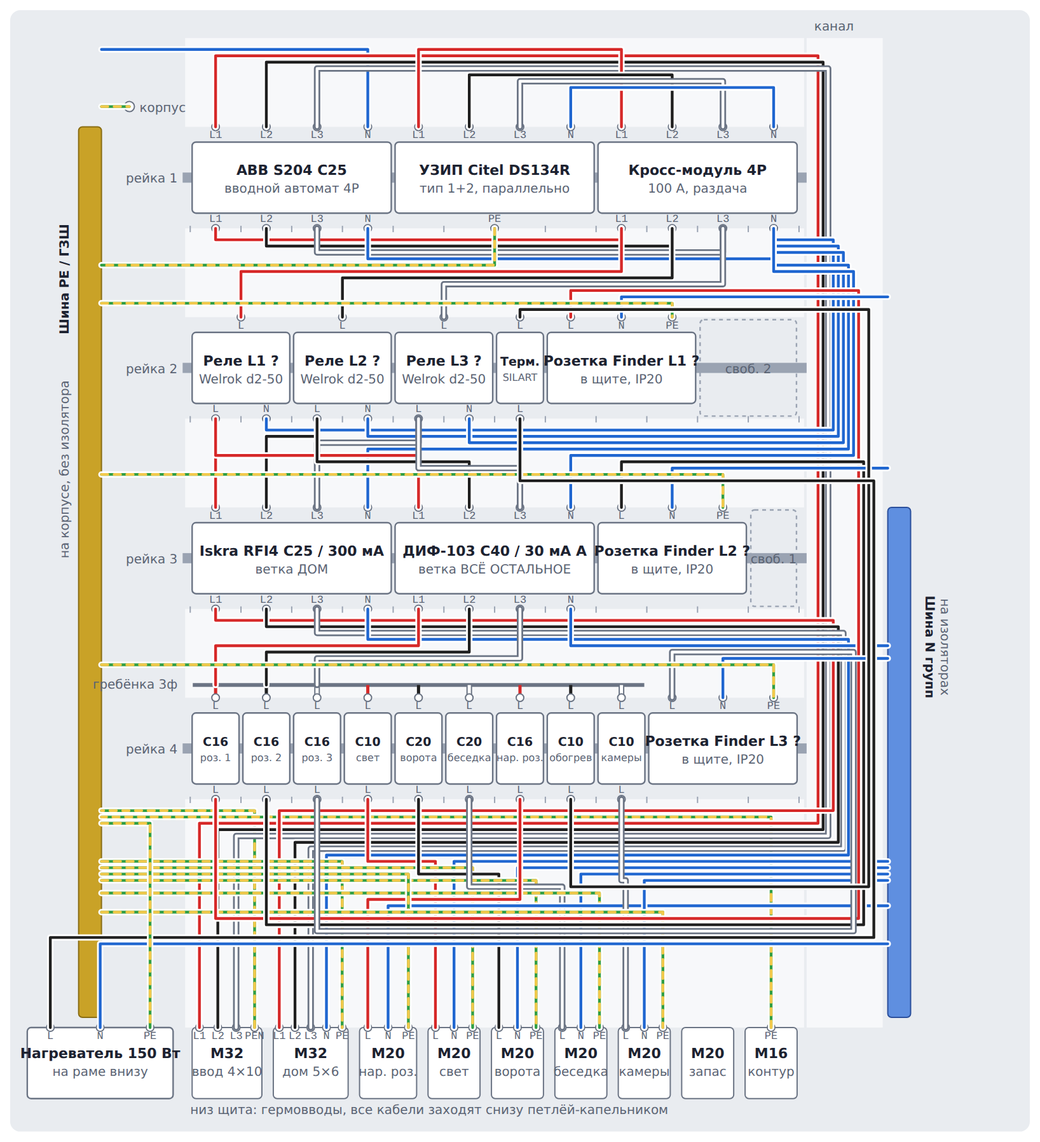
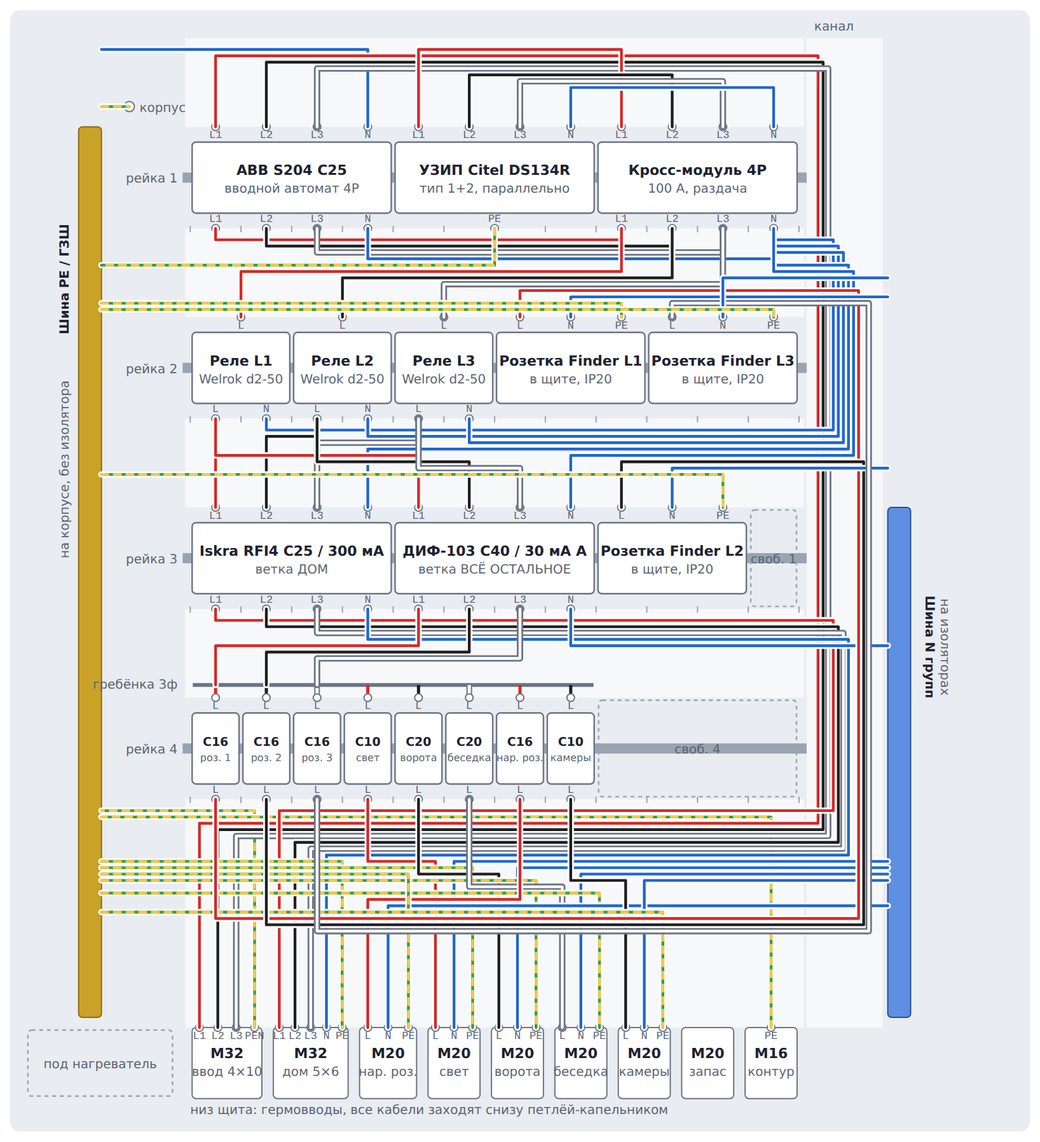
Щит: раскладка по примерке 05.10 — обогрев вынут, две Finder на рейке 2, 8 автоматов, 63 провода
Claude-Session: https://claude.ai/code/session_014vwwLy1XQxWdD3M4ixQCrA

diff --git a/07-schemas/electrics/panel-layout.html b/07-schemas/electrics/panel-layout.html
@@ -1,4 +1,4 @@
-<!doctype html><html lang="ru"><head><meta charset="utf-8"><meta name="viewport" content="width=device-width,initial-scale=1"><style>body{margin:0;font:14px system-ui}img{max-width:100%}[hidden]{display:none!important}</style></head><body><title>Щит на трубостойке</title>
+<title>Щит на трубостойке</title>
 <link rel="stylesheet" href="https://fonts.googleapis.com/css2?family=IBM+Plex+Sans:wght@400;500;600&family=IBM+Plex+Mono:wght@400;500&display=swap">
 <style>
   :root{
@@ -99,10 +99,9 @@
     <button class="chip on" data-stage="3">3 Защита</button>
     <button class="chip on" data-stage="4">4 Дом</button>
     <button class="chip on" data-stage="5">5 Остальное</button>
-    <button class="chip on" data-stage="6">6 Сервис</button>
   </div>
   <div class="steps"><span class="t">Пошагово</span>
-    <input type="range" id="step" min="0" max="6" value="6" aria-label="Показать этапы до">
+    <input type="range" id="step" min="0" max="5" value="5" aria-label="Показать этапы до">
     <span class="stepname" id="stepname">Все этапы</span>
     <button class="chip" id="reset">Сбросить</button>
   </div>
@@ -129,9 +128,10 @@
 <div class="notes">
   <h2>Что учесть при сборке</h2>
   <ol>
-    <li><b>Ширина аппаратов в модулях взята по памяти</b> <span class="tag">проверить</span>: S204 4, Citel DS134R 4, кросс-модуль 4, Welrok d2-50 по 2, Iskra и ДИФ-103 по 4, S201 по 1, Finder по 3, термостат 1. Итого 45 из 48. Если Welrok окажутся по 3 модуля, третья Finder уже не влезет: тогда либо одну Finder не ставить, либо взять реле уже.</li>
-    <li><b>Розетки:</b> три Finder внутри щита, по одной на каждую фазу (на C16 ×3), и одна влагозащищённая ЭРА IP65 снаружи на корпусе. Наружная на своём C16 (четвёртый C16 докупается), один из трёх C20 остаётся в запасе.</li>
-    <li><b>Автоматы разложены по купленному набору:</b> C16 ×4 на три Finder и наружную розетку, C20 на ворота и беседку (третий C20 в запас), C10 на свет, камеры и обогрев. Фаза каждого задана его местом на гребёнке.</li>
+    <li><b>Раскладка по факту (примерка 05.10):</b> рейка 1 — S204, УЗИП, кросс-модуль (12 мод.); рейка 2 — три Welrok по 2 мод. и две Finder по 3 (12); рейка 3 — Iskra, ДИФ-103, Finder (11, 1 свободен); рейка 4 — 8 автоматов (4 свободно). Занято 43 из 48.</li>
+    <li><b>Обогрев пока не ставится.</b> Термостат и нагреватель вынуты. Если вернёшь: нагреватель на раму внизу слева (место оставлено), термостат 1 мод. на свободное место рейки 3, его C10 — на рейку 4 после «камер» (тогда он сядет на L3 по гребёнке), гребёнку резать на 9 модулей вместо 8.</li>
+    <li><b>Розетки:</b> три Finder внутри щита, по одной на каждую фазу (на C16 ×3): две на рейке 2 рядом с реле, одна на рейке 3. Плюс влагозащищённая ЭРА IP65 снаружи на корпусе на своём C16. Пятый C16 и лишний кросс-модуль — запас.</li>
+    <li><b>Автоматы:</b> C16 ×4 на три Finder и наружную розетку, C20 ×2 на ворота и беседку, C10 ×2 на свет и камеры. Фаза каждого задана его местом на гребёнке (гребёнка обрезана на 8 модулей): L1 — роз. 1, свет, нар. розетка; L2 — роз. 2, ворота, камеры; L3 — роз. 3, беседка.</li>
     <li><b>Расщепление PEN одно:</b> жила PEN кабеля 4×10 садится на шину PE, оттуда синяя перемычка 10 мм² на клемму N вводного автомата. Больше N и PE нигде не соединяются.</li>
     <li><b>Шина N групп принимает только нули ветки «остальное»</b> (после ДИФ-103). Нули дома, реле и УЗИП идут на кросс-модуль. Перепутаешь, ДИФ-103 будет выбивать.</li>
     <li><b>УЗИП включён параллельно.</b> Через него ничего не проходит дальше: реле и дифавтоматы питаются с кросс-модуля. Единственный его «выход» на шину PE, туда он сбрасывает импульс.</li>
@@ -155,22 +155,21 @@ const VD={x0:640,x1:692};                  // right vertical duct lanes
 
 const CC={L1:'var(--l1)',L2:'var(--l2)',L3:'var(--l3)',N:'var(--n)',PE:'var(--pe)'};
 const CN={L1:'L1 красный',L2:'L2 чёрный',L3:'L3 белый',N:'N синий',PE:'PE жёлто-зелёный'};
-const STN={1:'Земля и расщепление',2:'Ввод',3:'Защита',4:'Ветка «дом»',5:'Ветка «всё остальное»',6:'Сервис и обогрев'};
+const STN={1:'Земля и расщепление',2:'Ввод',3:'Защита',4:'Ветка «дом»',5:'Ветка «всё остальное»'};
 
 // ---- devices on rails
 const DEV=[
  {id:'S204',rail:0,pos:0,w:4,name:'ABB S204 C25',sub:'вводной автомат 4P',top:['L1','L2','L3','N'],bot:['L1','L2','L3','N']},
  {id:'UZIP',rail:0,pos:4,w:4,name:'УЗИП Citel DS134R',sub:'тип 1+2, параллельно',top:['L1','L2','L3','N'],bot:['PE']},
  {id:'X',rail:0,pos:8,w:4,name:'Кросс-модуль 4P',sub:'100 А, раздача',top:['L1','L2','L3','N'],bot:['L1','L2','L3','N'],both:true},
- {id:'R1',rail:1,pos:0,w:2,name:'Реле L1',sub:'Welrok d2-50',top:['L'],bot:['L','N'],q:true},
- {id:'R2',rail:1,pos:2,w:2,name:'Реле L2',sub:'Welrok d2-50',top:['L'],bot:['L','N'],q:true},
- {id:'R3',rail:1,pos:4,w:2,name:'Реле L3',sub:'Welrok d2-50',top:['L'],bot:['L','N'],q:true},
- {id:'TS',rail:1,pos:6,w:1,name:'Терм.',sub:'SILART',top:['L'],bot:['L']},
- {id:'FND1',rail:1,pos:7,w:3,name:'Розетка Finder L1',sub:'в щите, IP20',top:['L','N','PE'],bot:[],q:true},
- {id:'FREE1',rail:1,pos:10,w:2,free:true},
+ {id:'R1',rail:1,pos:0,w:2,name:'Реле L1',sub:'Welrok d2-50',top:['L'],bot:['L','N']},
+ {id:'R2',rail:1,pos:2,w:2,name:'Реле L2',sub:'Welrok d2-50',top:['L'],bot:['L','N']},
+ {id:'R3',rail:1,pos:4,w:2,name:'Реле L3',sub:'Welrok d2-50',top:['L'],bot:['L','N']},
+ {id:'FND1',rail:1,pos:6,w:3,name:'Розетка Finder L1',sub:'в щите, IP20',top:['L','N','PE'],bot:[]},
+ {id:'FND3',rail:1,pos:9,w:3,name:'Розетка Finder L3',sub:'в щите, IP20',top:['L','N','PE'],bot:[]},
  {id:'ISK',rail:2,pos:0,w:4,name:'Iskra RFI4 C25 / 300 мА',sub:'ветка ДОМ',top:['L1','L2','L3','N'],bot:['L1','L2','L3','N']},
  {id:'D103',rail:2,pos:4,w:4,name:'ДИФ-103 C40 / 30 мА A',sub:'ветка ВСЁ ОСТАЛЬНОЕ',top:['L1','L2','L3','N'],bot:['L1','L2','L3','N']},
- {id:'FND2',rail:2,pos:8,w:3,name:'Розетка Finder L2',sub:'в щите, IP20',top:['L','N','PE'],bot:[],q:true},
+ {id:'FND2',rail:2,pos:8,w:3,name:'Розетка Finder L2',sub:'в щите, IP20',top:['L','N','PE'],bot:[]},
  {id:'FREE2',rail:2,pos:11,w:1,free:true},
  {id:'A1',rail:3,pos:0,w:1,name:'C16',sub:'роз. 1',top:['L'],bot:['L']},
  {id:'A2',rail:3,pos:1,w:1,name:'C16',sub:'роз. 2',top:['L'],bot:['L']},
@@ -179,14 +178,13 @@ const DEV=[
  {id:'A5',rail:3,pos:4,w:1,name:'C20',sub:'ворота',top:['L'],bot:['L']},
  {id:'A6',rail:3,pos:5,w:1,name:'C20',sub:'беседка',top:['L'],bot:['L']},
  {id:'A7',rail:3,pos:6,w:1,name:'C16',sub:'нар. роз.',top:['L'],bot:['L']},
- {id:'A8',rail:3,pos:7,w:1,name:'C10',sub:'обогрев',top:['L'],bot:['L']},
- {id:'A9',rail:3,pos:8,w:1,name:'C10',sub:'камеры',top:['L'],bot:['L']},
- {id:'FND3',rail:3,pos:9,w:3,name:'Розетка Finder L3',sub:'в щите, IP20',top:['L','N','PE'],bot:[],q:true},
+ {id:'A9',rail:3,pos:7,w:1,name:'C10',sub:'камеры',top:['L'],bot:['L']},
+ {id:'FREE3',rail:3,pos:8,w:4,free:true},
 ];
 const COMBX=[0,1,2]; // comb feed terminals above A1..A3
 // bottom row items: glands + heater
 const BOT=[
- {id:'HEAT',x:20,w:118,name:'Нагреватель 150 Вт',sub:'на раме внизу',top:['L','N','PE'],kind:'box'},
+ {id:'HEATP',x:20,w:118,kind:'box',free:true,lbl:'под нагреватель'},
  {id:'GIN',x:150,w:58,name:'M32',sub:'ввод 4×10',top:['L1','L2','L3','PEN'],kind:'gland'},
  {id:'GHOME',x:214,w:62,name:'M32',sub:'дом 5×6',top:['L1','L2','L3','N','PE'],kind:'gland'},
  {id:'GOUT',x:282,w:48,name:'M20',sub:'нар. роз.',top:['L','N','PE'],kind:'gland'},
@@ -245,7 +243,7 @@ add('D103.bot.L1','COMB.L1','L1','ПуГВ 6',5,'Питание гребёнки
 add('D103.bot.L2','COMB.L2','L2','ПуГВ 6',5,'');
 add('D103.bot.L3','COMB.L3','L3','ПуГВ 6',5,'');
 add('D103.bot.N','NB','N','ПуГВ 6',5,'Единственный вход на шину N групп.');
-const GR=[['A4','G4','L1','ВВГ 3×1,5'],['A5','G5','L2','ВВГ 3×2,5'],['A6','G6','L3','ВВГ 3×2,5'],['A7','GOUT','L1','ВВГ 3×2,5'],['A9','G9','L3','ВВГ 3×1,5']];
+const GR=[['A4','G4','L1','ВВГ 3×1,5'],['A5','G5','L2','ВВГ 3×2,5'],['A6','G6','L3','ВВГ 3×2,5'],['A7','GOUT','L1','ВВГ 3×2,5'],['A9','G9','L2','ВВГ 3×1,5']];
 GR.forEach(([a,g,c,sq])=>{
   add(a+'.bot.L',g+'.top.L',c,sq,5,'Фаза этого автомата задана гребёнкой.');
   add('NB',g+'.top.N','N',sq,5,'Ноль группы только на шину N групп.');
@@ -256,13 +254,7 @@ GR.forEach(([a,g,c,sq])=>{
   add('NB',f+'.top.N','N','ПуГВ 2,5',5,'');
   add('PE',f+'.top.PE','PE','ПуГВ 2,5 ж/з',5,'');
 });
-// 6 сервис
-add('A8.bot.L','TS.top.L','L1','ПуГВ 1,5',6,'C10 «обогрев» питает термостат. Фаза L2 по месту на гребёнке.');
-add('TS.bot.L','HEAT.top.L','L1','ПуГВ 1,5',6,'Термостат замыкает фазу на нагреватель при холоде.');
-add('NB','HEAT.top.N','N','ПуГВ 1,5',6,'');
-add('PE','HEAT.top.PE','PE','ПуГВ 1,5 ж/з',6,'');
-// phases of serv line are L2 by comb position (A8 is 8th = L2)
-W.forEach(w=>{ if(w.f.startsWith('A8.')||w.f.startsWith('TS.')) w.c='L2'; });
+// обогрев (термостат + нагреватель) пока не ставится: место под нагреватель внизу слева, термостат 1 мод. на свободное место рейки 3
 
 // ---- geometry helpers
 const devById={}; DEV.forEach(d=>devById[d.id]=d); BOT.forEach(d=>devById[d.id]=d);
@@ -339,14 +331,14 @@ svg.appendChild(el('text',{x:VD.x0+2,y:ductY(0)-6,class:'ds'},'канал'));
 svg.appendChild(el('circle',{cx:PEBUS.x+PEBUS.w+22,cy:PEBUS.y0-16,r:4,class:'term'}));
 svg.appendChild(el('text',{x:PEBUS.x+PEBUS.w+30,y:PEBUS.y0-12,class:'ds'},'корпус'));
 // comb
-const cy=railY(3)-10; svg.appendChild(el('line',{x1:RX+2,y1:cy,x2:RX+9*U-2,y2:cy,class:'comb',stroke:'var(--devline)'}));
-[['L1',0],['L2',1],['L3',2]].forEach(([c,i])=>{ for(let m=i;m<9;m+=3){ if(c==='L3') svg.appendChild(el('line',{x1:RX+(m+0.5)*U,y1:cy,x2:RX+(m+0.5)*U,y2:railY(3),stroke:'var(--l3halo)','stroke-width':4.5})); svg.appendChild(el('line',{x1:RX+(m+0.5)*U,y1:cy,x2:RX+(m+0.5)*U,y2:railY(3),stroke:CC[c],'stroke-width':2.5})); } });
+const cy=railY(3)-10; svg.appendChild(el('line',{x1:RX+2,y1:cy,x2:RX+8*U-2,y2:cy,class:'comb',stroke:'var(--devline)'}));
+[['L1',0],['L2',1],['L3',2]].forEach(([c,i])=>{ for(let m=i;m<8;m+=3){ if(c==='L3') svg.appendChild(el('line',{x1:RX+(m+0.5)*U,y1:cy,x2:RX+(m+0.5)*U,y2:railY(3),stroke:'var(--l3halo)','stroke-width':4.5})); svg.appendChild(el('line',{x1:RX+(m+0.5)*U,y1:cy,x2:RX+(m+0.5)*U,y2:railY(3),stroke:CC[c],'stroke-width':2.5})); } });
 svg.appendChild(el('text',{x:RX-10,y:cy+3,class:'ds','text-anchor':'end'},'гребёнка 3ф'));
 // devices
 const devGroup=el('g',{}); svg.appendChild(devGroup);
 function drawDev(d){
   const r=devRect(d); const g=el('g',{class:'devg','data-id':d.id});
-  if(d.free){ g.appendChild(el('rect',{x:r.x+2,y:r.y+2,width:r.w-4,height:r.h-4,rx:3,class:'dev free'})); g.appendChild(el('text',{x:r.x+r.w/2,y:r.y+r.h/2+4,class:'ds','text-anchor':'middle'},'своб. '+d.w)); devGroup.appendChild(g); return; }
+  if(d.free){ g.appendChild(el('rect',{x:r.x+2,y:r.y+2,width:r.w-4,height:r.h-4,rx:3,class:'dev free'})); g.appendChild(el('text',{x:r.x+r.w/2,y:r.y+r.h/2+4,class:'ds','text-anchor':'middle'},d.lbl||('своб. '+d.w))); devGroup.appendChild(g); return; }
   g.appendChild(el('rect',{x:r.x+1.5,y:r.y+(d.kind?0:12),width:r.w-3,height:d.kind?r.h:r.h-24,rx:3,class:d.kind==='gland'?'gland':'dev'}));
   const cx=r.x+r.w/2, small=r.w<=U;
   if(small){ g.appendChild(el('text',{x:cx,y:r.y+38,class:'dl','text-anchor':'middle',style:'font-size:9.5px'},d.name)); g.appendChild(el('text',{x:cx,y:r.y+50,class:'ds','text-anchor':'middle',style:'font-size:8px'},d.sub)); }
@@ -366,12 +358,12 @@ W.forEach((w,i)=>{ w.i=i+1; w.pts=route(w); const d='M'+w.pts.map(p=>p.join(' ')
   g.appendChild(el('path',{d,class:'w hit'})); wireGroup.appendChild(g); w.g=g; });
 
 // ---- interaction
-const condOn={L1:1,L2:1,L3:1,N:1,PE:1}, stOn={1:1,2:1,3:1,4:1,5:1,6:1}; let maxStep=6, sel=null;
+const condOn={L1:1,L2:1,L3:1,N:1,PE:1}, stOn={1:1,2:1,3:1,4:1,5:1}; let maxStep=5, sel=null;
 const info=document.getElementById('info'), tbody=document.querySelector('#tbl tbody');
 function label(ep){ if(ep==='PE')return 'шина PE (ГЗШ)'; if(ep==='NB')return 'шина N групп'; if(ep==='CORP')return 'корпус щита'; if(ep.startsWith('COMB.'))return 'гребёнка, '+ep.slice(5); const [id,a,b]=ep.split('.'); const d=devById[id]; const t=b||a; return d.name+(d.sub?' ('+d.sub+')':'')+', клемма '+t+(b?(a==='top'?' верх':' низ'):''); }
 function visible(w){ return condOn[w.c]&&stOn[w.st]; }
 function apply(){ W.forEach(w=>{ const v=visible(w); w.g.classList.toggle('dim',!v); w.g.classList.toggle('hl',sel===w.i); }); renderTable(); }
-function renderTable(){ tbody.innerHTML=''; let last=null; W.filter(visible).forEach(w=>{ const cur=maxStep<6&&w.st===maxStep; if(w.st!==last){ last=w.st; const h=document.createElement('tr'); h.className='grp'+(cur?' cur':''); h.innerHTML=`<td colspan="6">Этап ${w.st}. ${STN[w.st]}</td>`; tbody.appendChild(h); }
+function renderTable(){ tbody.innerHTML=''; let last=null; W.filter(visible).forEach(w=>{ const cur=maxStep<5&&w.st===maxStep; if(w.st!==last){ last=w.st; const h=document.createElement('tr'); h.className='grp'+(cur?' cur':''); h.innerHTML=`<td colspan="6">Этап ${w.st}. ${STN[w.st]}</td>`; tbody.appendChild(h); }
   const tr=document.createElement('tr'); tr.className='row'+(sel===w.i?' sel':'')+(cur?' cur':''); tr.dataset.i=w.i;
   tr.innerHTML=`<td class="num">${w.i}</td><td class="num">${w.st}</td><td>${label(w.f)} → ${label(w.t)}</td><td><span class="sw ${w.c==='PE'?'pe':''}" style="border-color:${CC[w.c]}"></span> ${w.c}</td><td class="mono">${w.sq}</td><td class="hint">${w.n||''}</td>`;
   tr.addEventListener('click',()=>{ sel=sel===w.i?null:w.i; apply(); showWire(w); }); tbody.appendChild(tr); }); }
@@ -385,9 +377,8 @@ devGroup.addEventListener('click',e=>{ const g=e.target.closest('g.devg'); if(!g
 document.querySelectorAll('[data-cond]').forEach(b=>b.addEventListener('click',()=>{ condOn[b.dataset.cond]^=1; b.classList.toggle('on'); apply(); }));
 document.querySelectorAll('[data-stage]').forEach(b=>b.addEventListener('click',()=>{ stOn[b.dataset.stage]^=1; b.classList.toggle('on'); apply(); }));
 const step=document.getElementById('step'), stepname=document.getElementById('stepname');
-step.addEventListener('input',()=>{ maxStep=+step.value; for(const k in stOn) stOn[k]=(+k<=maxStep)?1:0; document.querySelectorAll('[data-stage]').forEach(b=>b.classList.toggle('on',+b.dataset.stage<=maxStep)); stepname.textContent=maxStep===0?'Только раскладка, без проводов':(maxStep===6?'Все этапы':'Этапы 1–'+maxStep+': '+STN[maxStep]); apply(); });
-document.getElementById('reset').addEventListener('click',()=>{ for(const k in condOn)condOn[k]=1; for(const k in stOn)stOn[k]=1; maxStep=6; step.value=6; stepname.textContent='Все этапы'; sel=null; document.querySelectorAll('.chip[data-cond],.chip[data-stage]').forEach(b=>b.classList.add('on')); apply(); showWire(null); });
+step.addEventListener('input',()=>{ maxStep=+step.value; for(const k in stOn) stOn[k]=(+k<=maxStep)?1:0; document.querySelectorAll('[data-stage]').forEach(b=>b.classList.toggle('on',+b.dataset.stage<=maxStep)); stepname.textContent=maxStep===0?'Только раскладка, без проводов':(maxStep===5?'Все этапы':'Этапы 1–'+maxStep+': '+STN[maxStep]); apply(); });
+document.getElementById('reset').addEventListener('click',()=>{ for(const k in condOn)condOn[k]=1; for(const k in stOn)stOn[k]=1; maxStep=5; step.value=5; stepname.textContent='Все этапы'; sel=null; document.querySelectorAll('.chip[data-cond],.chip[data-stage]').forEach(b=>b.classList.add('on')); apply(); showWire(null); });
 apply();
 })();
 </script>
-</body></html>

diff --git a/07-schemas/electrics/panel.md b/07-schemas/electrics/panel.md
@@ -58,19 +58,19 @@
 | Ворота (привод) | 1P **C20** | ВВГ 3×2,5 в ПНД | L2 |
 | Беседка | 1P **C20** | ВВГ 3×2,5 в ПНД | L3 |
 | Наружная розетка ЭРА IP65 (на корпусе) | 1P **C16** | ВВГ 3×2,5 | L1 |
-| Обогрев щита (термостат → нагреватель) | 1P **C10** | ПуГВ 1,5 | L2 |
-| Камеры (БП/регистратор) | 1P **C10** | ВВГ 3×1,5 | L3 |
+| Камеры (БП/регистратор) | 1P **C10** | ВВГ 3×1,5 | L2 |
 
 > Компромисс: всё остальное под одним 30-мА — утечка в одной линии гасит всю ветку (розетки/ворота/свет/камеры). Для камер поэтому желателен ИБП.
 > Тип **A** (не AC) — обязательно: ловит утечки от техники с электроникой (БП камер, зарядки, инструмент).
 > Цвета проводов внутри щита: **L1 красный, L2 чёрный, L3 белый**, N синий, PE жёлто-зелёный.
-> Порядок на рейке = фаза по гребёнке: L1 — Finder 1, свет, наружная розетка · L2 — Finder 2, ворота, обогрев · L3 — Finder 3, беседка, камеры.
+> Порядок на рейке = фаза по гребёнке (8 автоматов, гребёнка обрезана на 8 модулей): L1 — Finder 1, свет, наружная розетка · L2 — Finder 2, ворота, камеры · L3 — Finder 3, беседка.
+> Обогрев щита (термостат + нагреватель) **пока не ставится** — вынут при примерке 05.10. Если вернётся: C10 девятым на рейку 4 (сядет на L3), термостат на свободный модуль рейки 3, нагреватель на раму внизу слева.
 
 ---
 
 ## Монтажная схема (раскладка + провода)
 
-- **[panel-layout.html](panel-layout.html)** — интерактивная: раскладка по рейкам, все 67 проводов, фильтры по проводникам (L1/L2/L3/N/PE) и этапам сборки, таблица «откуда → куда, сечение». Открывать в браузере (скачать файл или через артефакт в Claude).
+- **[panel-layout.html](panel-layout.html)** — интерактивная: раскладка по рейкам, все 63 провода, фильтры по проводникам (L1/L2/L3/N/PE) и этапам сборки, таблица «откуда → куда, сечение». Открывать в браузере (скачать файл или через артефакт в Claude).
 - **[panel-layout.png](panel-layout.png)** — та же схема картинкой, на печать и на дверцу щита.
 
 ![Монтажная схема щита](panel-layout.png)
@@ -80,13 +80,13 @@
 
 ## Рекомендации
 
-1. **Обогрев щита** — нагреватель + термостат (куплены): металл зимой собирает конденсат, вредно для реле и БП камер.
+1. **Обогрев щита** — нагреватель + термостат куплены, но пока вынуты. Металл зимой собирает конденсат, вредно для реле и БП камер: перед первой зимой с камерами лучше всё же поставить.
 2. **Заземлить корпус** — PE на металлический корпус (обязательно).
 3. **ИБП для камер** (маленький) — переживать срабатывания 30-мА и просадки.
-4. **Розетки:** три Finder внутри щита, по одной на фазу, плюс одна ЭРА IP65 снаружи на корпусе. Наружная на своём C16 (четвёртый C16 докуплен), один C20 остаётся в запасе.
+4. **Розетки:** три Finder внутри щита, по одной на фазу: две на рейке 2 рядом с реле, одна на рейке 3. Плюс одна ЭРА IP65 снаружи на корпусе на своём C16. Пятый C16 в запасе.
 5. **Гермовводы снизу**, кабели петлёй-капельником.
 6. **Маркировка** — подписать автоматы, схему на дверцу.
-7. **Место:** занято 45 из 48 модулей (при Welrok по 2 модуля), свободно 3. Шины N/PE и нагреватель крепятся на раму, модули не занимают.
+7. **Место (по примерке 05.10):** рейка 1 — 12/12, рейка 2 — 12/12 (три Welrok по 2 + две Finder по 3), рейка 3 — 11/12, рейка 4 — 8/12. Занято 43 из 48, свободно 5. Шины N/PE крепятся на раму.
 
 ---
 
@@ -100,14 +100,14 @@
 | Реле напряжения Welrok d2-50 (1ф) | 3 |
 | Дифавтомат Iskra RFI4-C-25/0.3, 4P C25 / 300 мА, селективный, тип A (дом) | 1 |
 | Дифавтомат Dekraft ДИФ-103 3P+N C40 / 30 мА, тип A (всё остальное) | 1 |
-| Автомат ABB S201 1P C16 (3 Finder + наружная розетка) | 4 |
-| Автомат ABB S201 1P C20 (ворота, беседка; третий в запас) | 3 |
-| Автомат ABB S201 1P C10 | 3 |
+| Автомат ABB S201 1P C16 (3 Finder + наружная розетка; пятый в запасе) | 4 |
+| Автомат ABB S201 1P C20 (ворота, беседка) | 2 |
+| Автомат ABB SH201 1P C10 (свет, камеры) | 2 |
 | Розетка наружная ЭРА IP65 2P+E, 16 А (на корпусе) | 1 |
 | Розетки в щит Finder Schuko IP20, по одной на фазу | 3 |
-| Нагреватель UNISPLIT 150 Вт + термостат SILART TBS-140 | 1 компл. |
+| Нагреватель UNISPLIT 150 Вт + термостат SILART TBS-140 — куплены, **пока не ставятся** | 1 компл. |
 
-> Finder ×3 и наружная розетка на **C16 ×4**; C20 на ворота и беседку, третий C20 в запас. Камеры лучше **C6**, но C10 рабочий вариант. Ширина Welrok принята 2 модуля: если 3, третья Finder не влезет.
+> Finder ×3 и наружная розетка на **C16 ×4**; C20 ×2 на ворота и беседку; C10 ×2 на свет и камеры (камерам лучше **C6**, но C10 рабочий вариант). Welrok по факту 2 модуля — всё влезло.
 
 **Что ещё купить** → полный чек-лист с галочками: [shopping-list.md](shopping-list.md) (узел ввода, шины, провода по сечениям, наконечники, гермовводы, инструмент).
 

diff --git a/07-schemas/electrics/shopping-list.md b/07-schemas/electrics/shopping-list.md
@@ -19,7 +19,7 @@
 
 - [ ] Дифавтомат Iskra RFI4-C-25/0.3 (дом)
 - [ ] Розетки Finder Schuko IP20 в щит — 3 шт.
-- [ ] ⚠ По схеме нужно **C10 ×3 и C20 ×2** (C20 ×3 с запасом), в заказе ВИ — C10 ×2 и C20 ×1. Если остальных нет — докупить C10 ×1 (камеры, можно C6) и C20 ×1–2
+- [ ] ⚠ Автоматы: по схеме (без обогрева) нужно **C10 ×2 и C20 ×2**. Куплено C10 ×2 ✅, C20 ×1 — **докупить один C20** (беседка), если второго нет с прошлых покупок
 
 ## 1. Узел ввода (СИП → трубостойка → щит)
 
@@ -61,9 +61,8 @@
 | [x] 2,5 мм² | красный, чёрный, белый | по 1 м | розетки Finder ×3: каждая на своей фазе, цвет провода по фазе |
 | [x] 2,5 мм² | синий | 2 м | то же |
 | [x] 2,5 мм² | жёлто-зелёный | 2 м | то же |
-| [x] 1,5 мм² | чёрный (L2) | 2 м | термостат → нагреватель (линия «обогрев» на L2) |
-| [x] 1,5 мм² | синий | 3 м | нагреватель + нули трёх реле |
-| [x] 1,5 мм² | жёлто-зелёный | 1 м | нагреватель |
+| [x] 1,5 мм² | синий | 3 м | нули трёх реле |
+| [x] 1,5 мм² | чёрный, жёлто-зелёный | есть | на обогрев (термостат → нагреватель), когда поставишь |
 
 **Цвета фаз в этом щите: L1 красный, L2 чёрный, L3 белый** (коричневого и серого в магазинах нет, ГОСТ допускает любые цвета кроме синего и жёлто-зелёного). N только синий, PE только жёлто-зелёный. На концы фазных проводов бирки L1/L2/L3.
 
